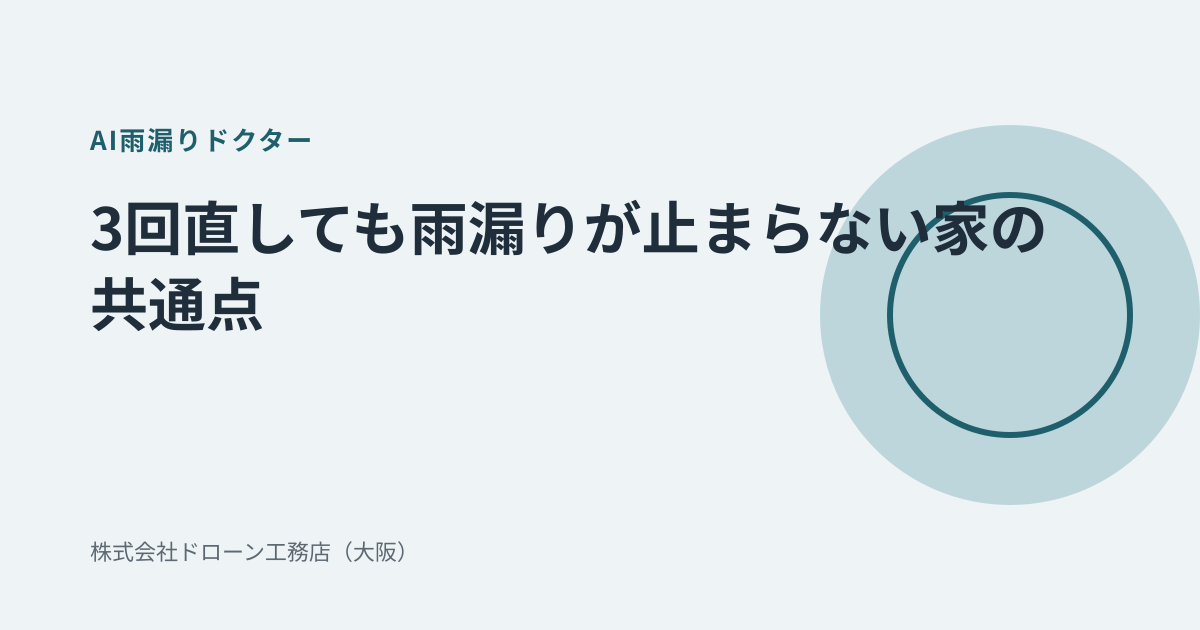
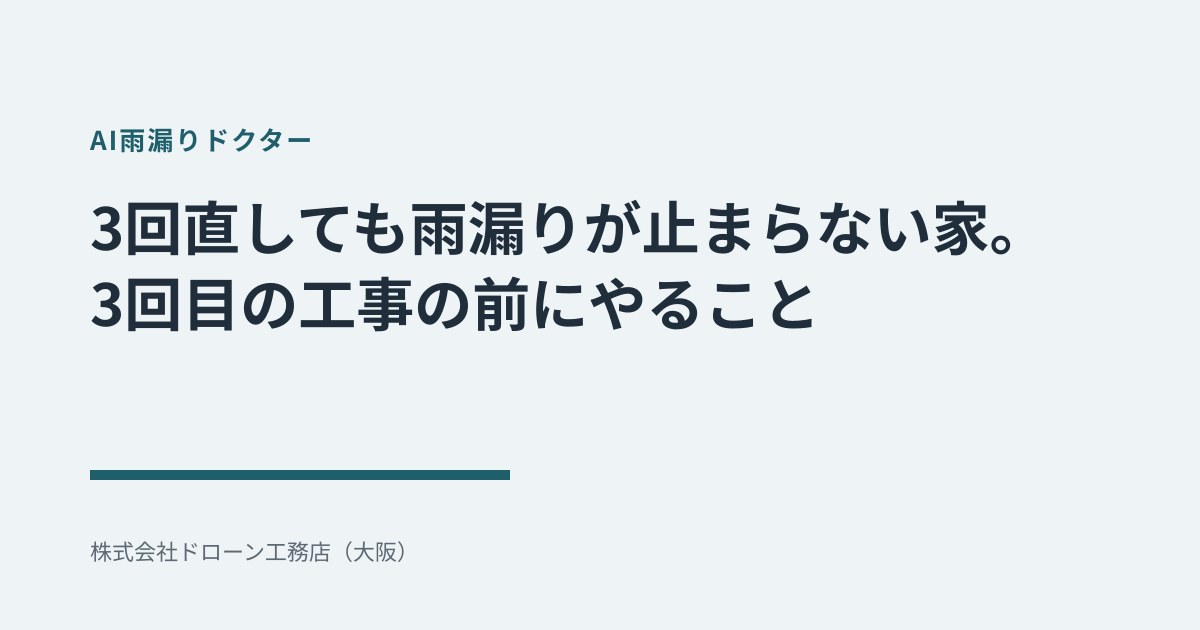
fix(blog): 写真AI診断の件数に基づく記述を撤去（同一写真の動作確認が多数含まれていたため）
- 統計が主題の4記事を draft: true に変更（65件被害箇所／火災保険36件／費用56件／築30年13件）
- 3記事は件数の記述と節を削除し訂正注記を追加（大雨のあと／3回直しても／訪問営業）
- 2記事のタイトルとカバー画像から件数を削除

根拠: diagnosis_sessions 完了65件の画像を storage の eTag で照合すると別々の写真の組は18組。
1組（約40KBの3枚）が24件を占め、氏名欄に「テスト」「te」「ああ」等の入力が並ぶ。

Changed region(s): [[0.0617, 0.181, 1.0, 0.8143], [0.0617, 0.7238, 0.4317, 0.7841]]

diff --git a/content/blog/taifu-go-homon-eigyo.md b/content/blog/taifu-go-homon-eigyo.md
@@ -1,6 +1,6 @@
 ---
-title: "「屋根が浮いていますよ」と訪問されたら。写真診断56件のうち49件は、家の中に症状が出ていた"
-description: "台風や大雨のあとに増える「屋根が危ない」の訪問営業。国民生活センターによると点検商法の相談は2025年度に19,696件ありました。当社の写真AI診断で被害の場所が記録された56件を見ると、49件は天井や室内の壁に症状が出ていて、5件は軒天や外壁など地上から見える場所でした。その場で決めずに雨を2回待てる家の見分け方と、待つあいだに自分で見る場所、契約してしまったあとの手順を整理しました。"
+title: "「屋根が浮いていますよ」と訪問されたら。その場で決めず、雨を2回待つあいだに見る3か所"
+description: "台風や大雨のあとに増える「屋根が危ない」の訪問営業。国民生活センターによると点検商法の相談は2025年度に19,696件ありました。その場で決めずに雨を2回待てる家の見分け方と、待つあいだに自分で見る場所、契約してしまったあとの手順を整理しました。"
 date: "2026-09-18"
 category: "お役立ち"
 tags: ["雨漏り", "訪問営業", "点検商法", "台風", "クーリング・オフ"]
@@ -11,7 +11,9 @@ draft: false
 
 台風や長雨が過ぎた週に、作業着の人がインターホンを鳴らします。「近くで工事をしていて、お宅の屋根の板金が浮いているのが見えました。このままだと次の雨で漏れますよ。今なら無料で見ます」。屋根の上は自分では見えないので、言われると不安になります。
 
-先に結論を書きます。**天井にも押し入れにも軒天にも変化がない家は、その場で決める理由がありません。雨を2回待って、そのあいだに自分で3か所を見てください。** 当社の写真AI診断で被害の場所が記録された56件のうち、49件は天井や室内の壁に症状が出ていました。5件は軒天の黒ずみや外壁のひび割れで、地上から見える場所です。残る2件は、雨漏りの跡が確認できないという判定でした。雨漏りで困って写真を送ってきた人は、屋根に上らなくても見える症状を持っていました。
+先に結論を書きます。**天井にも押し入れにも軒天にも変化がない家は、その場で決める理由がありません。雨を2回待って、そのあいだに自分で3か所を見てください。** 雨漏りの症状は、天井や押し入れ、軒天など、屋根に上らなくても見える場所に出ることが多いためです。
+
+**訂正（2026年9月21日）:** 公開時、この記事には当社の写真AI診断の件数を集計した数字を載せていました。記録を点検したところ、同じ写真を使った動作確認が多数含まれており、実際のご相談の件数として示せる数字ではないと判断したため、該当の記述を削除しました。
 
 ## 訪問営業の「屋根が危ない」は、どのくらい相談が出ているのですか？
 
@@ -30,21 +32,13 @@ draft: false
 
 同じページに載っている最近の相談は、こういう内容です。「突然来訪した業者に屋根がずれているので無料点検すると言われ、瓦がずれている画像を見せられて契約した。他社から高額と指摘された」「屋根が浮き上がっているのが見えた、今日なら割り引くと言われて契約したが不審だ」。2023年の発表には「ドローンで撮影したという写真を見せられ契約したが解約したい」という事例も入っています。
 
-## 本当に雨漏りしている家は、どこに症状が出ていますか？
+## 本当に雨漏りしている家は、どこに症状が出ますか？
 
-**結論: 当社の写真診断で被害の場所が記録された56件のうち、49件は天井・天井裏・室内の壁に症状がありました。外側だけだった5件も、4件は軒天、1件は外壁で、地上から見上げれば分かる場所です。残り2件は、雨漏りの跡が確認できないという判定でした。**
+**結論: 天井や天井裏、室内の壁、軒天など、自分の目で見られる場所に出ることが多いです。訪問された日にまず見るのは屋根の上ではなく、家の中と軒天です。**
 
-当社の写真AI診断は、利用者が撮った写真から被害の場所と危険度を出します。2026年1月28日から6月10日に完了した65件（9月7日に行った動作確認2件は除外）のうち、被害の場所が記録されている56件を、症状が出ている側で分けました。
+屋根から入った水は、屋根裏で受け止められてから天井のしみになったり、軒先に回って軒天の黒ずみや剥がれになったりします。どちらも、はしごをかけなくても見える症状です。
 
-| 症状が出ていた場所 | 件数 |
-|---|---|
-| 家の内側（天井・天井裏・室内の壁）を含む | 49件 |
-| 外側だけ（軒天と雨樋まわり4件・外壁のひび割れと錆汁1件） | 5件 |
-| 雨漏りの跡が確認できない（危険度0と3） | 2件 |
-
-跡が確認できない2件のうち1件は、仕上げ材を撤去した室内の壁の写真で、所見は「典型的な雨漏り痕は写真からは確認できません」でした。外側だけの5件も、所見は「軒天の木部が黒く変色し、一部は崩れている」「外壁にひび割れと錆汁」といったもので、はしごをかけなくても見える症状です。危険度は10段階で7か8でした。
-
-この集計には偏りがあります。写真診断は、何かに気づいた人が写真を撮って送るものなので、症状が見える家が多くなるのは当然です。「室内に症状がなければ屋根は傷んでいない」とは言えません。言えるのはここまでです。症状が確認できた54件は、すべて自分の目で見える場所に変化を持っていた。だから、訪問された日にまず見るのは屋根の上ではなく、自分で見られる場所です。
+「室内に症状がなければ屋根は傷んでいない」とは言えません。ただ、室内にも軒天にも変化がない家で、今日中に契約しなければならない理由は見つけにくい、ということです。
 
 ## なぜ「雨を2回待つ」のですか？
 
@@ -56,7 +50,7 @@ draft: false
 
 1. **最上階の天井と、壁との境目。** しみの輪郭、クロスの浮き、照明器具のまわり。懐中電灯を斜めから当てると凹凸が見えます。
 2. **押し入れ・クローゼットの天井と奥の壁。** 普段見ないので、しみがあっても気づいていないことがあります。カビのにおいも手がかりです。
-3. **軒天（屋根の裏側の、外から見上げる面）。** 黒ずみ、塗装の剥がれ、板の波打ち。当社の診断でも、56件中26件に軒天が出てきます。
+3. **軒天（屋根の裏側の、外から見上げる面）。** 黒ずみ、塗装の剥がれ、板の波打ち。
 
 雨の日と翌日にこの3か所を見て、日付入りで写真を撮っておきます。2回の雨で変化がなければ、緊急ではありません。変化があれば、その写真が業者に見せる材料になります。大雨の直後の見方は[大雨のあと、家の中で見ておく3か所](/blog/ooame-ato-amamori-tenken-3kasho)に詳しく書きました。
 
@@ -72,7 +66,7 @@ draft: false
 
 - **会社名・所在地・担当者名を書いた名刺をもらう。** 出せない会社とは話を進めません。
 - **「近所で工事をしている」なら、どの家かを聞く。** 国民生活センターの事例には、近所の工事がうそだったものがあります。
-- **「火災保険で無料になる」と言われたら、そこで打ち切る。** 保険が使えるかどうかを決めるのは保険会社で、業者ではありません。同センターも、保険金を利用できるというトークに気をつけるよう書いています。保険の考え方は[火災保険が使える雨漏り、使えない雨漏り](/blog/amamori-kasai-hoken-tsukaeru)にまとめました。
+- **「火災保険で無料になる」と言われたら、そこで打ち切る。** 保険が使えるかどうかを決めるのは保険会社で、業者ではありません。同センターも、保険金を利用できるというトークに気をつけるよう書いています。
 
 写真を見せられた場合は、家の全景から問題の場所まで、続けて撮った写真があるかを見てください。寄りの1枚だけでは、どこの屋根かは分かりません。当社もドローンで屋根を撮りますが、ドローンの写真だから正しいということはありません。誰の家を、いつ撮ったかが分かる写真かどうかです。
 
@@ -116,8 +110,7 @@ draft: false
 - 消費者庁 特定商取引法ガイド「訪問販売」（クーリング・オフ制度・法第9条）。https://www.no-trouble.caa.go.jp/what/doortodoorsales/
 - 沖縄タイムス 2024年12月1日付「訪問営業で『屋根の修理が必要』→クーリングオフなし 沖縄県警、特商法違反疑いで男を逮捕」。
 - いずれも2026年9月18日に実ページを確認しました。
-- 当社の写真AI診断（aiamamori.com）で2026年1月28日〜6月10日に完了した65件（2026年9月7日の動作確認2件は除外）のうち、被害の場所が記録された56件を集計。「家の内側」は、場所の記録に天井・天井裏・室内の壁のいずれかが含まれ、所見に水染みなどの症状があるものです。個人が特定できる情報は含めていません。
-- 写真診断は症状に気づいた人が利用するため、症状が見える家に偏っています。室内に症状がない屋根の状態を示すデータではありません。
+- 2026年9月21日、当社の写真AI診断の件数にもとづく記述を削除しました（同じ写真を使った動作確認が多数含まれていたため）。
 - 法律の記述は一般的な説明です。個別の契約でクーリング・オフができるかどうかは、消費生活センターにご確認ください。
 
 執筆: 株式会社ドローン工務店（大阪市・建設業許可 大阪府知事許可）

diff --git a/content/blog/ooame-ato-amamori-tenken-3kasho.md b/content/blog/ooame-ato-amamori-tenken-3kasho.md
@@ -19,7 +19,7 @@ draft: false
 
 うっすら黄色い輪ができていたら、それは今回の雨で濡れた跡です。前からあったしみと区別がつかないときは、スマホで写真を撮って日付を残しておいてください。次の雨で輪が大きくなっていれば、進行しています。
 
-当社の写真診断（2026年1月〜6月、完了65件）で最も多かった被害箇所は「天井・屋根裏・軒天」の組み合わせでした。天井のしみは、屋根裏で一度受け止められた水が時間差で出てくることが多く、雨が止んでから広がるのはそのためです。
+天井のしみは、屋根裏で一度受け止められた水が時間差で出てくることが多く、雨が止んでから広がるのはそのためです。
 
 ## 窓まわりは、何を確認しますか？
 

diff --git a/content/blog/amamori-kasai-hoken-tsukaeru.md b/content/blog/amamori-kasai-hoken-tsukaeru.md
@@ -6,7 +6,7 @@ category: "雨漏り"
 tags: ["雨漏り", "火災保険", "風災", "写真診断", "経年劣化"]
 cover: "/images/blog/amamori-kasai-hoken-tsukaeru.png"
 author: "株式会社ドローン工務店"
-draft: false
+draft: true
 ---
 
 「この雨漏り、保険で直せますか」は、現地点検で最初に聞かれる質問の一つです。当社の写真AI診断では、写真から火災保険の適用可能性を「高・中・低・なし」で推定しています。2026年1月28日から6月10日までに完了した65件を集計すると、「高」が36件、「中」が18件でした。

diff --git a/content/blog/shashin-shindan-65ken-higai-kasho.md b/content/blog/shashin-shindan-65ken-higai-kasho.md
@@ -6,7 +6,7 @@ category: "雨漏り"
 tags: ["雨漏り", "写真診断", "軒天", "屋根裏", "被害箇所"]
 cover: "/images/blog/shashin-shindan-65ken-higai-kasho.png"
 author: "株式会社ドローン工務店"
-draft: false
+draft: true
 ---
 
 雨漏りの相談で最初に聞かれるのは「どこから漏れているんですか」です。写真だけで断定はできませんが、傾向は出ます。当社の写真AI診断で2026年1月28日から6月10日までに完了した65件について、写真から推定された被害箇所を集計しました。

diff --git a/content/blog/amamori-shuuri-hiyou-souba.md b/content/blog/amamori-shuuri-hiyou-souba.md
@@ -6,7 +6,7 @@ category: "雨漏り"
 tags: ["雨漏り", "修理費用", "相場", "写真診断", "応急処置"]
 cover: "/images/blog/amamori-shuuri-hiyou-souba.png"
 author: "株式会社ドローン工務店"
-draft: false
+draft: true
 ---
 
 雨漏りの修理費用は「数万円から数百万円」と幅で語られることが多く、自分の家がどこに入るのかが分かりません。そこで、当社の写真AI診断に届いた写真から出た概算を、そのまま並べてみました。

diff --git a/content/blog/chiku30nen-amamori.md b/content/blog/chiku30nen-amamori.md
@@ -6,7 +6,7 @@ category: "雨漏り"
 tags: ["雨漏り", "軒天", "築30年", "写真診断", "屋根"]
 cover: "/images/blog/chiku30nen-amamori.png"
 author: "株式会社ドローン工務店"
-draft: false
+draft: true
 ---
 
 築30年を超えた家の雨漏りは「屋根が古いから」で片づけられがちです。ただ、当社の写真AI診断に届いた写真を築年数で分けてみると、傷んでいる場所にはっきりした偏りがありました。
